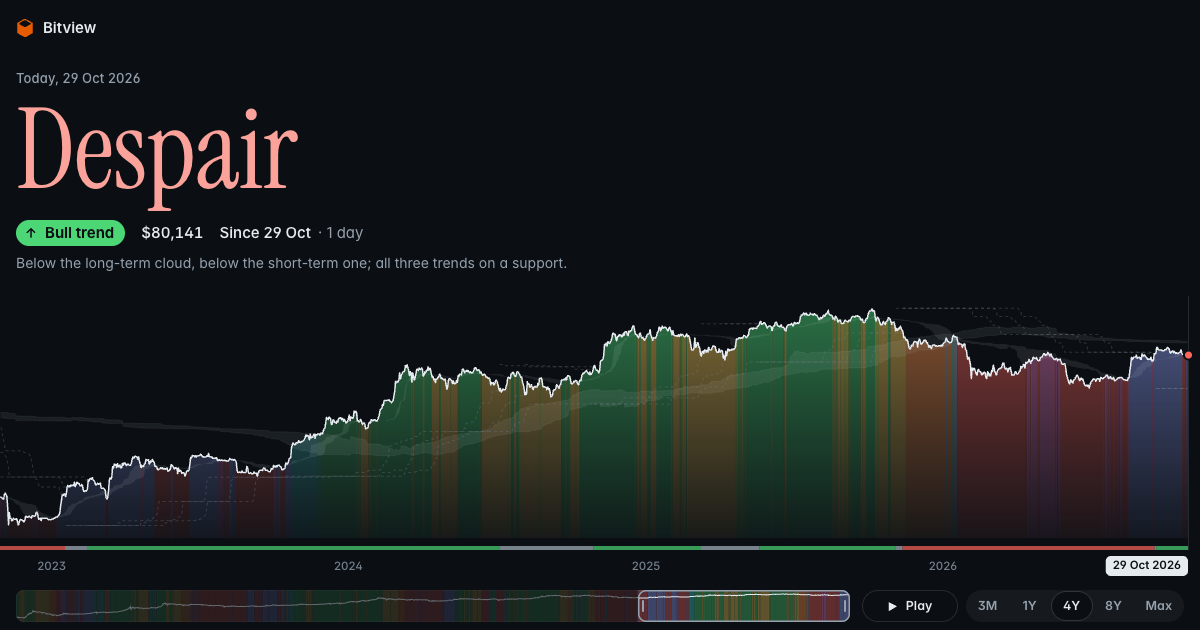
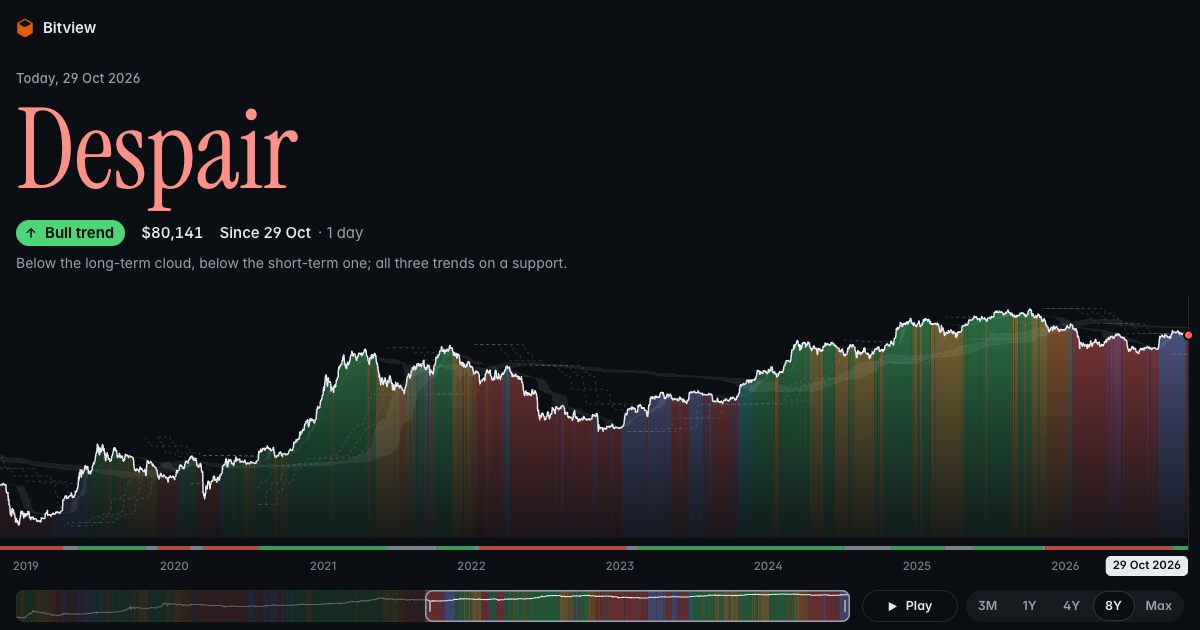
showcases: Compass opens on 8 years. The chart's first span is 8Y, two halving cycles (SPAN, one constant: the span it opens on and the one the address leaves out; 4Y is now written as ?span=4y like the others). Its share card and front-page cover made again at 8 years, the card's alt text saying so

diff --git a/showcases/compass/index.html b/showcases/compass/index.html
@@ -15,7 +15,7 @@
     <meta property="og:image" content="https://bitview.space/compass/og.png" />
     <meta property="og:image:width" content="1200" />
     <meta property="og:image:height" content="630" />
-    <meta property="og:image:alt" content="Compass on a day of Despair with a bull trend: the state's name over four years of price, each day coloured by its state, the trend's lane under it" />
+    <meta property="og:image:alt" content="Compass on a day of Despair with a bull trend: the state's name over eight years of price, each day coloured by its state, the trend's lane under it" />
     <meta name="twitter:card" content="summary_large_image" />
     <link rel="icon" type="image/svg+xml" href="/assets/favicon/favicon.svg" />
     <style>
@@ -972,8 +972,8 @@
           <div class="ranges" role="group" aria-label="Span">
             <button type="button" data-span="91" aria-pressed="false">3M</button>
             <button type="button" data-span="365" aria-pressed="false">1Y</button>
-            <button type="button" data-span="1461" aria-pressed="true">4Y</button>
-            <button type="button" data-span="2922" aria-pressed="false">8Y</button>
+            <button type="button" data-span="1461" aria-pressed="false">4Y</button>
+            <button type="button" data-span="2922" aria-pressed="true">8Y</button>
             <button type="button" data-span="0" aria-pressed="false">Max</button>
           </div>
         </div>
@@ -1266,8 +1266,10 @@
       // ── What's shown: the span, the day ──
 
       const still = matchMedia("(prefers-reduced-motion: reduce)");
+      /** The span the chart opens on: 8 years, two halving cycles. */
+      const SPAN = 2922;
       /** The chart's span in days (0: all; -1: none, moved by hand), and the days it shows now (eased toward the span's). */
-      let span = 1461;
+      let span = SPAN;
       let view = { a: 0, b: 0 }, target = { a: 0, b: 0 };
       /** The day shown above: pinned (kept), or under the pointer for now; else the last. */
       let pinned = /** @type {number | null} */ (null), hovered = /** @type {number | null} */ (null);
@@ -1288,7 +1290,7 @@
       }
       function remember() {
         const query = new URLSearchParams(), name = Object.keys(SPANS).find((key) => SPANS[key] === span);
-        if (span !== 1461 && name) query.set("span", name);
+        if (span !== SPAN && name) query.set("span", name);
         if (pinned !== null) query.set("day", iso(pinned));
         if (coins !== "mobile") query.set("coins", coins);
         // (Safari refuses past 100 writes in 10 seconds: kept from it anyway, and written once a held key is let go.)
